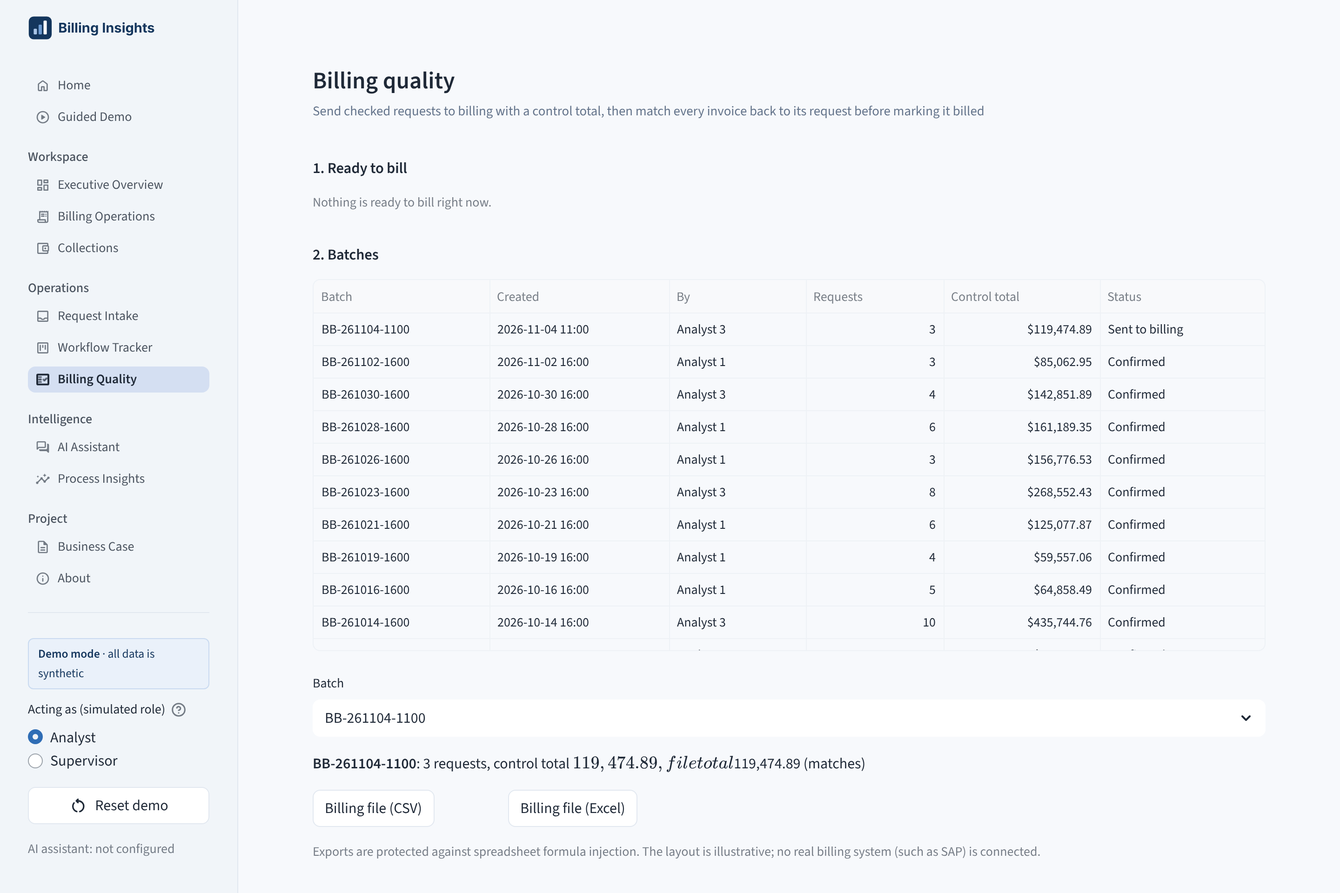
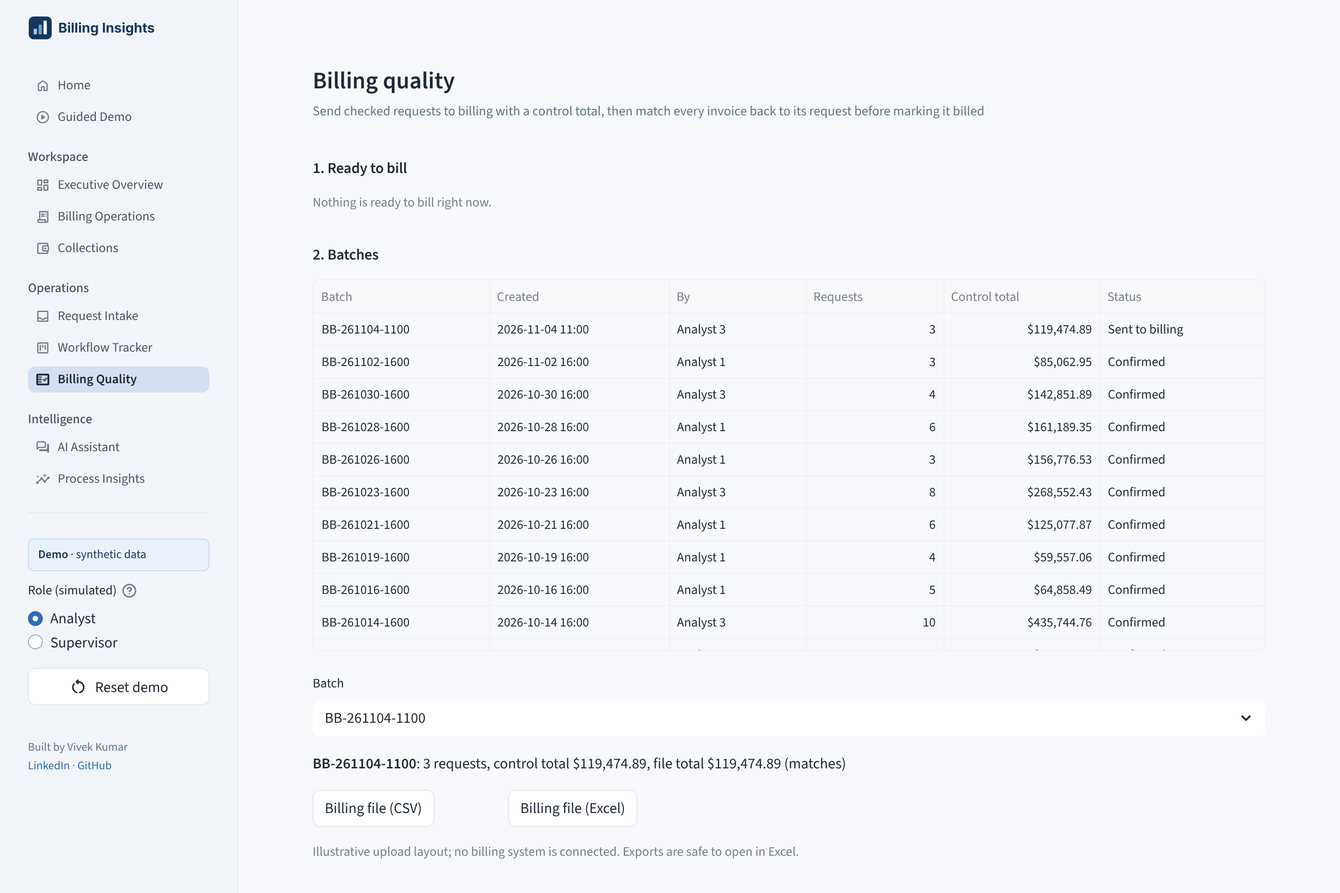
Tighten the app: personal home, shorter copy, no Project pages
- Home opens with a short personal note, five key figures and three focus points
- Assistant page keeps one short disclosure line; provider name removed from the UI
- Provider-neutral error messages
- Remove the Business Case and About pages from the app
- Sidebar: demo badge, simulated role, reset, author links
- Fix dollar amounts rendering as maths on Billing Quality
- Refresh README, screenshots and smoke test

Claude-Session: https://claude.ai/code/session_017UuhV9uyVM3xaiscyzuK1D

diff --git a/views/home.py b/views/home.py
@@ -1,4 +1,4 @@
-"""Home: what this is, the key figures, today's priorities and the guided demo."""
+"""Home: a personal introduction, the key figures, today's priorities and the guided demo."""
 import streamlit as st
 
 from core import receivables as rc
@@ -7,20 +7,23 @@ from workflow import store
 
 m = ui.metrics(rc.Filters())  # headline figures always use the full portfolio
 conn = ui.workspace()
-reqs = store.table(conn, "SELECT status, followups_sent, exception FROM requests")
+reqs = store.table(conn, "SELECT status, exception FROM requests")
 counts = reqs["status"].value_counts()
-to_follow = int(((reqs["status"] == "Needs information") & (reqs["followups_sent"].fillna(0) == 0)).sum())
 exceptions = int(reqs["exception"].notna().sum())
 
 st.title("Receivables & Billing Insights")
 st.markdown("<div class='page-sub' style='font-size:1.05rem;color:#2F6DB5;font-weight:600;margin-top:-0.8rem'>"
             "Intelligent Billing Operations</div>", unsafe_allow_html=True)
+
 st.markdown(
-    "A working prototype for a billing and receivables team. It shows where money is owed, checks incoming "
-    "billing requests before they are billed, catches errors when invoices come back, and includes an assistant "
-    "that answers questions from the calculated figures.")
-st.info("All customers, requests and amounts are synthetic. This is an independent portfolio project, "
-        "not a system used by any company.", icon=":material/info:")
+    "<div class='note'>"
+    "<b>Hi, I'm Vivek.</b> Version 1 of this app showed where the money is: what has been billed, collected and "
+    "is still owed. Version 2 goes one step earlier, to the billing requests themselves. It shows how damage "
+    "recovery, pole attachment, customer-requested work and connection requests could be checked on arrival, "
+    "followed up automatically and matched to their invoices, so the team spends its time on exceptions, "
+    "not on retyping and chasing."
+    "<div class='note-sign'>Vivek Kumar · Computer Science (Co-op), Algoma University</div></div>",
+    unsafe_allow_html=True)
 
 b1, b2, _ = st.columns([1.3, 1.2, 3])
 if b1.button("Explore Interactive Demo", type="primary", icon=":material/play_circle:", width="stretch"):
@@ -28,60 +31,39 @@ if b1.button("Explore Interactive Demo", type="primary", icon=":material/play_ci
 if b2.button("Open AI Assistant", icon=":material/forum:", width="stretch"):
     st.switch_page("views/assistant.py")
 
-st.subheader("Key figures")
-st.markdown(f"<div class='panel-note'>Receivables as of {rc.AS_OF_LABEL} (fixed report) · billing queue from the live "
-            "demo workspace</div>", unsafe_allow_html=True)
+st.subheader("At a glance")
 c = st.columns(5)
 ui.kpi(c[0], "Total billed", rc.money(m.billed), f"{len(m.inv):,} invoices")
 ui.kpi(c[1], "Collection rate", f"{m.collection_rate:.1%}", f"{rc.money(m.collected)} collected")
 ui.kpi(c[2], "Overdue", rc.money(m.overdue_amt), f"{rc.money(m.over_90)} over 90 days", "bad")
-ui.kpi(c[3], "Requests on hold", f"{int(counts.get('Needs information', 0))}", "Missing or wrong information")
-ui.kpi(c[4], "Ready to bill", f"{int(counts.get('Ready to bill', 0))}", "Checked and approved")
+ui.kpi(c[3], "Requests on hold", f"{int(counts.get('Needs information', 0))}", "Missing information")
+ui.kpi(c[4], "Awaiting approval", f"{int(counts.get('Awaiting approval', 0))}", "Over the approval limit")
 
 left, right = st.columns([1.15, 1])
 with left:
-    st.subheader("Operational priorities")
-    st.markdown("<div class='panel-note'>Worked out by the app from the figures above; no AI involved</div>",
-                unsafe_allow_html=True)
+    st.subheader("Where to focus")
     slow = m.cycle_by_cat
     others = slow.drop(slow.index[-1]).mean()
     st.markdown(
-        f"1. **Collections:** {rc.money(m.by_category['OverdueAR'].iloc[0])} of overdue balance is in "
-        f"{m.by_category.index[0]}, and {m.over_90 / m.outstanding:.0%} of everything outstanding is over 90 days.\n"
+        f"1. **Collections:** {rc.money(m.by_category['OverdueAR'].iloc[0])} overdue in "
+        f"{m.by_category.index[0]}; {m.over_90 / m.outstanding:.0%} of all outstanding is over 90 days.\n"
         f"2. **Billing speed:** {slow.index[-1]} takes {slow.iloc[-1]:.0f} days to invoice, against about "
         f"{others:.0f} for other categories.\n"
-        f"3. **Billing queue:** {int(counts.get('Needs information', 0))} requests on hold for missing information "
-        f"({to_follow} still need a first follow-up), {int(counts.get('Awaiting approval', 0))} waiting for a "
-        f"supervisor, and {exceptions} invoice {'mismatch' if exceptions == 1 else 'mismatches'} to resolve.")
+        f"3. **Request queue:** {int(counts.get('Needs information', 0))} on hold, "
+        f"{int(counts.get('Awaiting approval', 0))} waiting for a supervisor, {exceptions} invoice "
+        f"{'mismatch' if exceptions == 1 else 'mismatches'}.")
     ui.ask_assistant("Home", "Give me today's briefing across receivables and the billing queue.",
-                     label="Ask the assistant for today's briefing")
+                     label="Ask for today's briefing")
 with right:
-    st.subheader("Try the three demo scenarios")
-    st.markdown("<div class='panel-note'>About two minutes. Each step runs the real checks.</div>",
-                unsafe_allow_html=True)
+    st.subheader("Two-minute demo")
     for title, text in [
-        ("A. A complete request", "Checked in seconds and ready to bill with no manual review."),
-        ("B. Missing information", "Held at intake, a follow-up drafted, corrected, re-checked and approved."),
-        ("C. A billing mismatch", "An invoice keyed wrongly is caught at reconciliation and not marked billed."),
+        ("A. A complete request", "Checked in seconds and ready to bill."),
+        ("B. Missing information", "Held, followed up, corrected and approved."),
+        ("C. A billing mismatch", "A wrong invoice is caught before it is marked billed."),
     ]:
         with st.container(border=True):
             st.markdown(f"**{title}**  \n<span style='color:#64748B;font-size:0.9rem'>{text}</span>",
                         unsafe_allow_html=True)
     if st.button("Start the guided demo", icon=":material/arrow_forward:"):
         st.switch_page("views/guided_demo.py")
-
-st.subheader("What this would change for a billing team")
-v = st.columns(3)
-for col, (title, text) in zip(v, [
-    ("Less re-keying and chasing", "Requests are checked on arrival against 16 rules, and the follow-up email is "
-                                   "drafted with exactly what is missing."),
-    ("Errors caught before customers see them", "Batches carry a control total, and every invoice is matched back "
-                                                "to its request before it is marked billed."),
-    ("Answers in plain English", "Managers ask questions and get answers built only from calculated figures, "
-                                 "with the evidence shown."),
-]):
-    with col.container(border=True):
-        st.markdown(f"**{title}**  \n<span style='color:#475569;font-size:0.9rem'>{text}</span>",
-                    unsafe_allow_html=True)
-st.caption("No savings figures are claimed. The Business Case page proposes how a pilot would measure them.")
 ui.footer()

diff --git a/views/common.py b/views/common.py
@@ -54,7 +54,11 @@ section[data-testid="stSidebar"] {background: #F1F5F9; border-right: 1px solid #
 .badge.muted {background: #F1F5F9; color: #475569; border-color: #E2E8F0;}
 .demo-flag {background: #EAF1FA; color: #14365D; border: 1px solid #C9DAF0; border-radius: 6px;
             padding: 6px 10px; font-size: 0.8rem; margin: 0.2rem 0 0.6rem 0;}
-.side-foot {color: #64748B; font-size: 0.75rem; margin-top: 1.2rem; line-height: 1.5;}
+.side-foot {color: #64748B; font-size: 0.78rem; margin-top: 1.2rem; line-height: 1.6;}
+.side-foot a {color: #2F6DB5; text-decoration: none;}
+.note {background: #FFFFFF; border: 1px solid #E2E8F0; border-left: 4px solid #14365D; border-radius: 8px;
+       padding: 16px 20px; color: #1F2937; font-size: 0.98rem; line-height: 1.6; margin: 0.4rem 0 1.1rem 0;}
+.note-sign {color: #64748B; font-size: 0.85rem; margin-top: 8px;}
 .footer {color: #64748B; font-size: 0.76rem; margin-top: 2.5rem; border-top: 1px solid #E2E8F0; padding-top: 0.8rem;}
 div[data-testid="stChatMessage"] {background: #FFFFFF; border: 1px solid #E2E8F0; border-radius: 8px;
                                   padding: 12px 16px; margin-bottom: 0.6rem;}
@@ -164,25 +168,18 @@ def ai_provider():
     return providers.connect()
 
 
-def ai_status() -> str:
-    p = ai_provider()
-    if p is None:
-        return "AI assistant: not configured"
-    return f"AI assistant: {p.name}"
-
-
 # ---------------------------------------------------------------- page furniture
 def sidebar() -> None:
     with st.sidebar:
         st.session_state["_filter_slot"] = st.container()
-        st.markdown("<div class='demo-flag'><b>Demo mode</b> · all data is synthetic</div>", unsafe_allow_html=True)
-        st.radio("Acting as (simulated role)", ROLES, key="role", horizontal=True,
-                 help="A role switch for the demo only. There are no real users or sign-in.")
-        st.button("Reset demo", icon=":material/restart_alt:", width="stretch", on_click=reset_demo,
-                  help="Start again with fresh demo data. Your changes are cleared.")
-        st.caption(ai_status())
-        st.markdown("<div class='side-foot'>Independent portfolio project by Vivek Kumar.<br>"
-                    "Not affiliated with or endorsed by any utility.<br>Version 2.0</div>", unsafe_allow_html=True)
+        st.markdown("<div class='demo-flag'><b>Demo</b> · synthetic data</div>", unsafe_allow_html=True)
+        st.radio("Role (simulated)", ROLES, key="role", horizontal=True,
+                 help="Switch to Supervisor to approve requests. There is no sign-in in this demo.")
+        st.button("Reset demo", icon=":material/restart_alt:", width="stretch", on_click=reset_demo)
+        st.markdown("<div class='side-foot'>Built by Vivek Kumar<br>"
+                    "<a href='https://www.linkedin.com/in/vivek-kumar-812211247' target='_blank'>LinkedIn</a> · "
+                    "<a href='https://github.com/DevModeVivek/receivables-billing-assistant' target='_blank'>GitHub</a>"
+                    "</div>", unsafe_allow_html=True)
 
 
 def header(title: str, subtitle: str, reporting: bool = False) -> None:
@@ -192,15 +189,7 @@ def header(title: str, subtitle: str, reporting: bool = False) -> None:
 
 
 def footer(text: Optional[str] = None) -> None:
-    p = ai_provider()
-    if text is None:
-        if p is None:
-            ai_line = "The AI assistant is not configured in this copy"
-        elif p.hosted:
-            ai_line = f"Assistant questions, which contain only fictional demo data, are sent to {p.name}"
-        else:
-            ai_line = "The assistant runs on a local model, so questions stay on this computer"
-        text = f"All data is synthetic · Figures and checks calculated in Python · {ai_line}"
+    text = text or "Synthetic demo data · Built by Vivek Kumar"
     st.markdown(f"<div class='footer'>{text}</div>", unsafe_allow_html=True)
 
 

diff --git a/views/assistant.py b/views/assistant.py
@@ -15,23 +15,12 @@ customers = ui.customers()
 page_from = st.session_state.get("assistant_from")
 provider = ui.ai_provider()
 
-ui.header("AI assistant", "Ask about receivables or the billing queue in plain English")
+ui.header("AI assistant", "Ask about receivables or the request queue. Answers use only the app's calculated "
+                          "figures.")
 
 if provider is None:
-    st.warning("The AI assistant is not configured in this copy of the app, so it cannot answer questions. "
-               "Every report, check and workflow step still works. To turn it on, add an API key in the app's "
-               "secret settings (see the README).", icon=":material/info:")
-elif provider.hosted:
-    st.info(f"Questions are answered by {provider.name}, a hosted AI service. Each question is sent with the "
-            "calculated summaries shown below, which contain only fictional demo data. Please do not type real "
-            "personal or company information.", icon=":material/cloud:")
-else:
-    st.info(f"Questions are answered by a local model ({provider.name}), so they stay on this computer.",
-            icon=":material/computer:")
-
-st.markdown("<div class='panel-note'>Python calculates every figure first. The assistant only explains them, cannot "
-            "change anything, and says when the data does not answer the question. Reports use the 30 Sep 2026 "
-            "snapshot and your current filters.</div>", unsafe_allow_html=True)
+    st.info("The assistant is offline right now. Every report and workflow step still works.",
+            icon=":material/info:")
 
 st.session_state.setdefault("chat", [])
 pending = st.session_state.pop("assistant_pending", None)
@@ -39,7 +28,7 @@ question = st.chat_input("Ask about billing, collections or the request queue", 
                          max_chars=guard.MAX_QUESTION_CHARS) or pending
 
 if not st.session_state["chat"] and not question:
-    st.markdown("**Suggested questions**" + (f" (from {page_from})" if page_from else ""))
+    st.markdown("**Try asking**")
     cols = st.columns(2)
     for i, q in enumerate(ai_context.suggestions(page_from, conn)):
         cols[i % 2].button(q, key=f"sugg{i}", width="stretch", disabled=provider is None,
@@ -80,13 +69,12 @@ if question and provider is not None:
                 st.error(ui.esc(e), icon=":material/error:")
 
 if provider is not None:
-    st.caption(f"{guard.questions_left(st.session_state)} questions left in this visit. "
-               "Answers can be wrong: check the figures on the report pages before using them.")
+    st.caption("AI-generated and can be wrong; check figures on the report pages. Questions are processed by a hosted "
+               "AI service, so please use demo questions only.")
 if st.session_state["chat"] and st.button("New conversation", icon=":material/add_comment:"):
     st.session_state["chat"] = []
     st.rerun()
 
-with st.expander("What the assistant was given"):
-    st.caption("The assistant sees only these calculated summaries and rules, never raw records or keys.")
+with st.expander("Data behind the answers"):
     st.text(system)
 ui.footer()

diff --git a/views/guided_demo.py b/views/guided_demo.py
@@ -178,11 +178,10 @@ with st.container(border=True):
             st.markdown("**3. Ask the assistant to explain**")
             provider = ui.ai_provider()
             if demo.get("c_explained"):
-                st.caption(f"Answer from {provider.name if provider else 'the AI assistant'}, based only on the app's "
-                           "calculated figures")
+                st.caption("AI explanation, based only on the app's calculated figures")
                 st.markdown(ui.esc(demo["c_explained"]))
             elif provider is None:
-                st.caption("The AI assistant is not configured in this copy, so here is the rule-based explanation:")
+                st.caption("Explanation from the reconciliation rule:")
                 st.markdown(ui.esc(
                     f"The billing system invoiced {res['target']} for ${res['invoiced']:,.2f}, but the request was "
                     f"for ${res['requested']:,.2f}. The two amounts use the same digits in a different order, which "
@@ -198,7 +197,7 @@ with st.container(border=True):
                     system = ai_context.system_prompt(ui.metrics(), conn, customers, ui.now(), "Billing Quality")
                     try:
                         with st.container(border=True):
-                            st.caption(f"Answer from {provider.name}, based only on the app's calculated figures")
+                            st.caption("AI explanation, based only on the app's calculated figures")
                             text = st.write_stream(guard.limit_stream(
                                 provider.stream(system, [{"role": "user", "content": q}])))
                         demo["c_explained"] = text if isinstance(text, str) else "".join(map(str, text))

diff --git a/views/quality.py b/views/quality.py
@@ -49,14 +49,13 @@ batch_id = st.selectbox("Batch", all_batches, index=all_batches.index(default) i
                         key="q_pick")
 upload = store.batch_file(conn, batch_id)
 row = batches.set_index("batch_id").loc[batch_id]
-st.markdown(f"**{batch_id}**: {int(row.request_count)} requests, control total ${row.control_total:,.2f}, "
-            f"file total ${upload['Amount'].sum():,.2f} "
-            + ("(matches)" if abs(upload['Amount'].sum() - row.control_total) < 0.01 else "(DOES NOT MATCH)"))
+st.markdown(ui.esc(f"**{batch_id}**: {int(row.request_count)} requests, control total ${row.control_total:,.2f}, "
+                   f"file total ${upload['Amount'].sum():,.2f} "
+                   + ("(matches)" if abs(upload['Amount'].sum() - row.control_total) < 0.01 else "(DOES NOT MATCH)")))
 d1, d2, _ = st.columns([1, 1, 3])
 d1.download_button("Billing file (CSV)", exports.to_csv_bytes(upload), f"{batch_id}.csv", "text/csv", key="q_csv")
 d2.download_button("Billing file (Excel)", exports.to_excel_bytes(upload, "Upload"), f"{batch_id}.xlsx", key="q_xlsx")
-st.caption("Exports are protected against spreadsheet formula injection. The layout is illustrative; no real billing "
-           "system (such as SAP) is connected.")
+st.caption("Illustrative upload layout; no billing system is connected. Exports are safe to open in Excel.")
 
 st.subheader("3. Reconcile with the billing system")
 if batch_id not in open_batches and not store.table(

diff --git a/ai/providers.py b/ai/providers.py
@@ -47,15 +47,15 @@ def setting(name: str) -> Optional[str]:
 
 
 def _safe_error(exc: Exception, provider: str) -> AIError:
+    """A plain message for the visitor. It never includes the provider's raw error, which could contain a key."""
     text = f"{type(exc).__name__} {exc}".lower()
     if "429" in text or "quota" in text or "rate limit" in text or "resource_exhausted" in text:
-        return AIError(f"The {provider} free quota is used up for the moment. Please try again in a minute; "
-                       "everything else in the app still works.")
+        return AIError("The assistant is busy right now. Please try again in a minute.")
     if "401" in text or "403" in text or "api key" in text or "permission" in text or "unauthenticated" in text:
-        return AIError(f"The {provider} key was not accepted, so the assistant is unavailable.")
+        return AIError("The assistant is unavailable at the moment.")
     if "timeout" in text or "connect" in text:
-        return AIError(f"Could not reach {provider}. Please try again shortly.")
-    return AIError(f"{provider} could not answer this time. Please try again.")
+        return AIError("Could not reach the assistant. Please try again shortly.")
+    return AIError("The assistant could not answer this time. Please try again.")
 
 
 class Provider:

diff --git a/views/intake.py b/views/intake.py
@@ -136,12 +136,8 @@ with tab_email:
         st.session_state["e_text"] = sample_data.sample_email(sample, today)
         st.session_state["e_loaded"] = sample
     text = st.text_area("Paste the email", key="e_text", height=260, max_chars=MAX_EMAIL_CHARS)
-    if provider is None:
-        st.caption("Standard-template emails are read by a plain parser. Free-text emails need the AI assistant, "
-                   "which is not configured here, so fill any gaps by hand.")
-    else:
-        st.caption(f"Standard-template emails are read by a plain parser. Free-text emails are read by {provider.name}; "
-                   "every value it returns is checked against the email text.")
+    st.caption("Template emails are read directly. Free-text emails are read by AI, and every value is checked "
+               "against the email." if provider else "Template emails are read directly. Fill any gaps by hand.")
     if st.button("Read email", key="e_read", disabled=not text.strip()):
         try:
             fields, source = extract.read_email(text, provider)

diff --git a/tests/test_app.py b/tests/test_app.py
@@ -12,7 +12,7 @@ from ai import providers  # noqa: E402
 APP = str(Path(__file__).resolve().parents[1] / "app.py")
 PAGES = ["views/home.py", "views/guided_demo.py", "views/overview.py", "views/billing_ops.py",
          "views/collections.py", "views/intake.py", "views/tracker.py", "views/quality.py", "views/assistant.py",
-         "views/insights.py", "views/business_case.py", "views/about.py"]
+         "views/insights.py"]
 
 
 @pytest.fixture(autouse=True)
@@ -45,7 +45,7 @@ def test_every_page_loads_without_ai():
         assert not at.exception, (page, [e.value for e in at.exception])
     at.switch_page("views/assistant.py")
     at.run()
-    assert any("not configured" in w.value for w in at.warning)
+    assert any("offline" in i.value for i in at.info)
 
 
 def test_filters_change_the_reports_and_persist_across_pages():

diff --git a/views/insights.py b/views/insights.py
@@ -12,8 +12,7 @@ checks = store.table(conn, "SELECT * FROM checks_log WHERE run_no = 1")
 events = store.table(conn, "SELECT * FROM events")
 
 ui.header("Process insights", "How the billing request process is performing in the demo workspace")
-st.caption("These figures come from simulated demo requests. They show how each measure would work in a pilot; "
-           "they are not real results and no savings are claimed.")
+st.caption("Simulated demo requests. These show how each measure would be tracked in a pilot, not real results.")
 
 first = reqs[reqs["first_pass_clean"].notna()]
 billed = reqs[reqs["status"] == "Billed"]

diff --git a/tests/test_ai_and_safety.py b/tests/test_ai_and_safety.py
@@ -84,8 +84,8 @@ def _gemini_with(models):
 
 
 @pytest.mark.parametrize("exc, phrase", [
-    (RuntimeError("429 RESOURCE_EXHAUSTED quota exceeded for key AIzaSECRET"), "quota"),
-    (RuntimeError("403 PERMISSION_DENIED API key not valid AIzaSECRET"), "not accepted"),
+    (RuntimeError("429 RESOURCE_EXHAUSTED quota exceeded for key AIzaSECRET"), "busy"),
+    (RuntimeError("403 PERMISSION_DENIED API key not valid AIzaSECRET"), "unavailable"),
     (RuntimeError("something odd AIzaSECRET"), "could not answer"),
 ])
 def test_provider_failures_are_reported_honestly(exc, phrase):

diff --git a/app.py b/app.py
@@ -41,10 +41,6 @@ pages = {
         page("views/assistant.py", "AI Assistant", "forum"),
         page("views/insights.py", "Process Insights", "insights"),
     ],
-    "Project": [
-        page("views/business_case.py", "Business Case", "description"),
-        page("views/about.py", "About", "info"),
-    ],
 }
 
 nav = st.navigation(pages, position="sidebar", expanded=True)

diff --git a/README.md b/README.md
@@ -34,8 +34,6 @@ Open **Guided Demo** from the home page. It runs three short scenarios on your o
 | Operations | Billing Quality | Billing batch, control total, safe CSV/Excel export, confirmation file and reconciliation |
 | Intelligence | AI Assistant | One assistant over the reports and the live queue, with suggested questions per page |
 | Intelligence | Process Insights | Complete-first-time rate, days to invoice, top problems, results by team, each with its definition |
-| Project | Business Case | A one-page proposal for a small pilot |
-| Project | About | Version history, how AI is used, privacy and limits |
 
 The Version 1 report pages keep their original figures, filters and definitions, fixed at **30 Sep 2026**. Tests check that the figures match the v1.0 code exactly (for example: billed $67.74M, collection rate 78.1%, overdue $10.22M, over 90 days $7.12M).
 
@@ -85,11 +83,7 @@ Python does the work; the AI explains it.
 5. Questions and emails are treated as untrusted text: length limits, prompt-injection screening, a per-visitor question cap, and an answer length limit.
 6. If the AI fails or is not configured, the app says so. It never shows a made-up answer.
 
-| Where it runs | Provider | Notes |
-| --- | --- | --- |
-| Public demo | Google Gemini 3.5 Flash-Lite (free tier) | Questions, with fictional demo summaries, are sent to Google. Free-tier prompts may be used to improve Google's products. Free quotas are limited and change over time. |
-| Optional | Claude (Anthropic API) | Used if an Anthropic key is configured. Paid. |
-| On a laptop | Ollama, `qwen2.5:3b` | Runs locally, so questions stay on the computer. |
+The live demo uses a hosted AI model on a free tier, so questions (with fictional demo data only) are processed by that service and usage is limited. Run locally, the assistant can use [Ollama](https://ollama.com) instead, so nothing leaves the computer.
 
 ## Run it locally
 
@@ -105,7 +99,7 @@ streamlit run app.py
 Everything works without AI. For the assistant, either:
 
 - install [Ollama](https://ollama.com) and run `ollama pull qwen2.5:3b`, or
-- copy `.streamlit/secrets.toml.example` to `.streamlit/secrets.toml` and add a Gemini or Anthropic key. This file is never committed. The hosted SDKs need Python 3.11+ (Gemini) or 3.10+ (Claude).
+- copy `.streamlit/secrets.toml.example` to `.streamlit/secrets.toml` and add an API key for a supported hosted model (see the example file). This file is never committed. Hosted models need Python 3.11 or newer.
 
 Run the tests with `pip install pytest` and then `python -m pytest`.
 
@@ -129,7 +123,7 @@ workflow/extract.py     Email reading: template parser, AI for free text, check 
 workflow/scenarios.py   Guided demo scenarios A, B and C
 workflow/sample_data.py Synthetic workflow history, built on the Version 1 customer list
 workflow/exports.py     Safe CSV/Excel export and upload limits
-ai/providers.py         Gemini, Claude and Ollama behind one interface, with honest errors
+ai/providers.py         Hosted and local AI models behind one interface, with honest errors
 ai/context.py           The assistant's rules and verified context
 ai/guard.py             Input, output and rate limits, prompt-injection screening
 views/                  One file per page
